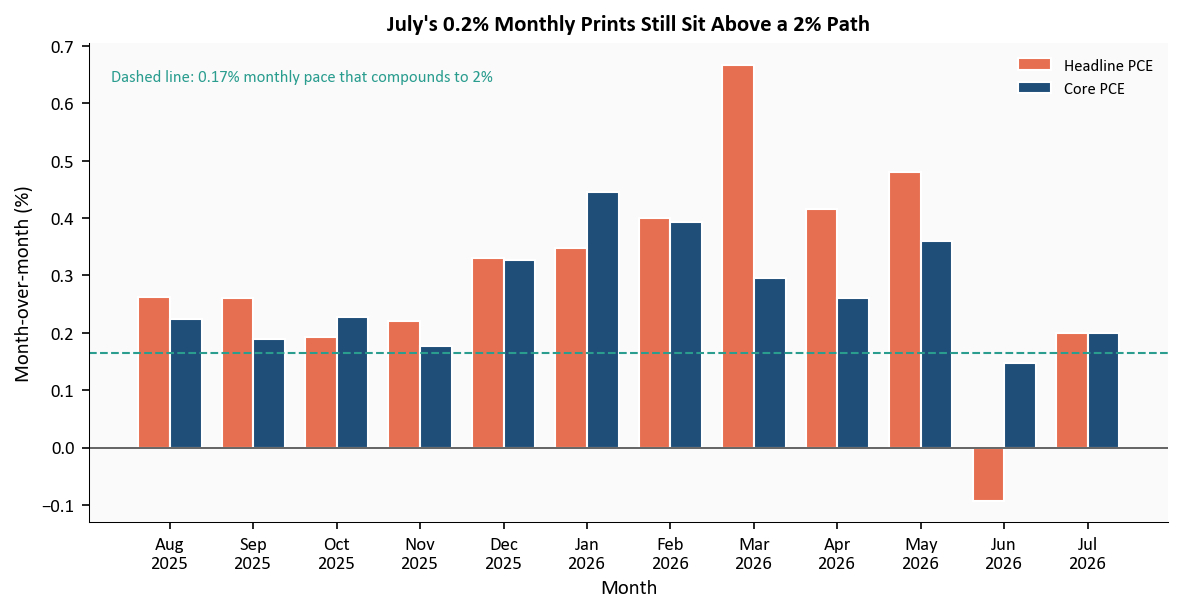
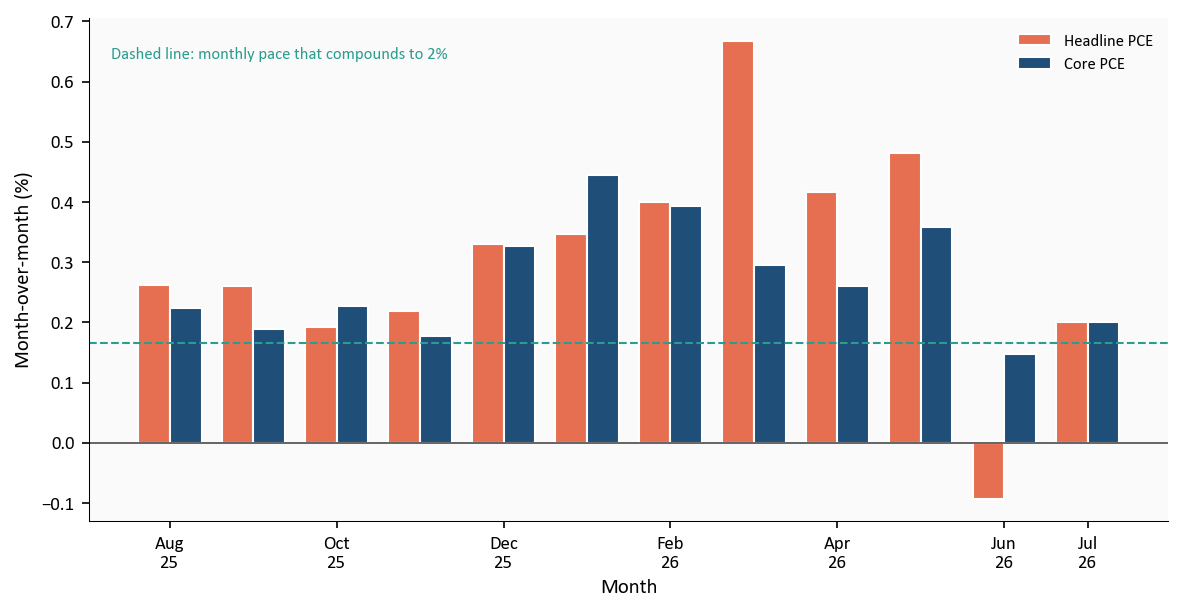
Raise July PCE draft to editor 9.5: stacked panels, distinct series colors

diff --git a/posts/2026-08-28-july-pce-jackson-hole/scripts/03_visualizations.py b/posts/2026-08-28-july-pce-jackson-hole/scripts/03_visualizations.py
@@ -6,6 +6,8 @@ STEP 3 of the data pipeline.
 Saves the five post figures under figures/. The same plots are also drawn
 inside index.qmd so readers can expand the code. Rate formulas live in
 02_clean_data.py; this script only plots those columns.
+
+In-chart titles are omitted; Quarto fig-caps carry the takeaway.
 """
 
 from __future__ import annotations
@@ -29,7 +31,7 @@ COLORS = {
     "light": "#b0b0b0",
 }
 
-TWO_PCT_MONTHLY = 0.16515198  # (1.02)^(1/12) - 1, as percent ~ 0.17
+TWO_PCT_MONTHLY = 0.16515198
 
 
 def setup_style() -> None:
@@ -51,7 +53,7 @@ def setup_style() -> None:
     })
 
 
-def extend_xlim(ax, index, pad_frac: float = 0.12) -> None:
+def extend_xlim(ax, index, pad_frac: float = 0.16) -> None:
     span = index[-1] - index[0]
     ax.set_xlim(index[0], index[-1] + span * pad_frac)
 
@@ -69,7 +71,7 @@ def chart_yoy(df: pd.DataFrame) -> None:
         ax.annotate(
             "Spring 2026\nenergy shock",
             xy=(shock, float(plot.loc[shock, "pce_headline_yoy"])),
-            xytext=(shock - pd.Timedelta(days=220), float(plot["pce_headline_yoy"].max()) - 0.15),
+            xytext=(shock - pd.Timedelta(days=240), float(plot["pce_headline_yoy"].max()) - 0.2),
             fontsize=8,
             color=COLORS["headline"],
             arrowprops=dict(arrowstyle="->", color=COLORS["light"], lw=0.8),
@@ -89,8 +91,7 @@ def chart_yoy(df: pd.DataFrame) -> None:
             f"  Core {last['pce_core_yoy']:.1f}%",
             color=COLORS["core"], fontsize=8, fontweight="bold", va="top")
 
-    extend_xlim(ax, plot.index, 0.16)
-    ax.set_title("PCE Inflation Held Above the Fed's 2% Target", fontweight="bold")
+    extend_xlim(ax, plot.index, 0.20)
     ax.set_ylabel("Year-over-year (%)")
     ax.set_xlabel("Month")
     ax.xaxis.set_major_locator(mdates.YearLocator())
@@ -101,9 +102,8 @@ def chart_yoy(df: pd.DataFrame) -> None:
 
 
 def chart_monthly(df: pd.DataFrame) -> None:
-    cols = ["pce_headline_mom", "pce_core_mom"]
-    plot = df.loc[:, cols].dropna().iloc[-12:]
-    x = range(len(plot))
+    plot = df.loc[:, ["pce_headline_mom", "pce_core_mom"]].dropna().iloc[-12:]
+    x = list(range(len(plot)))
     width = 0.38
     fig, ax = plt.subplots(figsize=(8.0, 4.2))
     ax.bar([i - width / 2 for i in x], plot["pce_headline_mom"], width=width,
@@ -113,17 +113,15 @@ def chart_monthly(df: pd.DataFrame) -> None:
     ax.axhline(TWO_PCT_MONTHLY, color=COLORS["target"], linestyle="--", linewidth=1.0)
     ax.text(
         0.02, 0.92,
-        "Dashed line: 0.17% monthly pace that compounds to 2%",  # matches two_pct_monthly_pace
+        "Dashed line: monthly pace that compounds to 2%",
         color=COLORS["target"], fontsize=8, transform=ax.transAxes,
     )
     ax.axhline(0, color=COLORS["neutral"], linewidth=0.8)
-    ax.set_xticks(list(x))
-    ax.set_xticklabels([d.strftime("%b\n%Y") for d in plot.index])
-    last_mom = float(plot["pce_headline_mom"].iloc[-1])
-    ax.set_title(
-        f"July's {last_mom:.1f}% Monthly Prints Still Sit Above a 2% Path",
-        fontweight="bold",
-    )
+    tick_idx = list(range(0, len(plot), 2))
+    if (len(plot) - 1) not in tick_idx:
+        tick_idx.append(len(plot) - 1)
+    ax.set_xticks([x[i] for i in tick_idx])
+    ax.set_xticklabels([plot.index[i].strftime("%b\n%y") for i in tick_idx])
     ax.set_ylabel("Month-over-month (%)")
     ax.set_xlabel("Month")
     ax.legend(loc="upper right", frameon=False, fontsize=8)
@@ -134,32 +132,24 @@ def chart_monthly(df: pd.DataFrame) -> None:
 
 def chart_spending(df: pd.DataFrame) -> None:
     plot = df.loc["2023-01-01":, ["real_pce_yoy", "saving_rate"]].dropna()
-    fig, ax1 = plt.subplots(figsize=(8.0, 4.6))
-    ax2 = ax1.twinx()
-    ax2.grid(False)
-    ax2.spines["top"].set_visible(False)
-    ax1.plot(plot.index, plot["real_pce_yoy"], color=COLORS["target"], linewidth=1.9,
-             label="Real PCE YoY")
-    ax2.plot(plot.index, plot["saving_rate"], color=COLORS["core"], linewidth=1.8,
-             label="Saving rate")
+    fig, (ax1, ax2) = plt.subplots(
+        2, 1, figsize=(8.0, 7.0), sharex=True, gridspec_kw={"height_ratios": [2.2, 1.4]}
+    )
+    ax1.plot(plot.index, plot["real_pce_yoy"], color=COLORS["target"], linewidth=1.9)
+    ax2.plot(plot.index, plot["saving_rate"], color=COLORS["core"], linewidth=1.8)
     july = pd.Timestamp("2026-07-01")
     if july in plot.index:
         ax2.scatter(july, plot.loc[july, "saving_rate"], s=40, color=COLORS["core"],
                     edgecolors="white", linewidth=0.8, zorder=5)
-        ax2.text(july, plot.loc[july, "saving_rate"],
-                 f"  July saving rate {plot.loc[july, 'saving_rate']:.1f}%",
-                 color=COLORS["core"], fontsize=8, fontweight="bold", va="center")
+        ax2.text(july, plot.loc[july, "saving_rate"] + 0.18,
+                 f"  July {plot.loc[july, 'saving_rate']:.1f}%",
+                 color=COLORS["core"], fontsize=8, fontweight="bold", va="bottom")
     extend_xlim(ax1, plot.index, 0.22)
-    july_save = float(plot.loc[july, "saving_rate"]) if july in plot.index else float(plot["saving_rate"].iloc[-1])
-    ax1.set_title(
-        f"Real Spending Stayed Soft as Households Saved {july_save:.1f}% of DPI",
-        fontweight="bold",
-    )
-    ax1.set_ylabel("Real PCE, year-over-year (%)", color=COLORS["target"])
-    ax2.set_ylabel("Personal saving rate (% of DPI)", color=COLORS["core"])
-    ax1.set_xlabel("Month")
-    ax1.xaxis.set_major_locator(mdates.YearLocator())
-    ax1.xaxis.set_major_formatter(mdates.DateFormatter("%Y"))
+    ax1.set_ylabel("Real PCE YoY (%)")
+    ax2.set_ylabel("Saving rate (%)")
+    ax2.set_xlabel("Month")
+    ax2.xaxis.set_major_locator(mdates.YearLocator())
+    ax2.xaxis.set_major_formatter(mdates.DateFormatter("%Y"))
     plt.tight_layout()
     fig.savefig(FIG_DIR / "real-pce-saving.png", dpi=150, bbox_inches="tight")
     plt.close(fig)
@@ -167,35 +157,36 @@ def chart_spending(df: pd.DataFrame) -> None:
 
 def chart_labor(df: pd.DataFrame) -> None:
     plot = df.loc["2025-01-01":"2026-07-01", ["payroll_change_k", "unrate"]].dropna()
-    fig, ax1 = plt.subplots(figsize=(8.0, 4.6))
-    ax2 = ax1.twinx()
-    ax2.grid(False)
-    ax2.spines["top"].set_visible(False)
+    payroll_average = plot["payroll_change_k"].rolling(3).mean()
+    fig, (ax1, ax2) = plt.subplots(
+        2, 1, figsize=(8.0, 7.0), sharex=True, gridspec_kw={"height_ratios": [2.2, 1.4]}
+    )
     colors = [COLORS["target"] if v >= 0 else COLORS["headline"] for v in plot["payroll_change_k"]]
     ax1.bar(plot.index, plot["payroll_change_k"], width=20, color=colors, alpha=0.7, edgecolor="white")
-    ax2.plot(plot.index, plot["unrate"], color=COLORS["core"], linewidth=1.9)
+    ax1.plot(plot.index, payroll_average, color=COLORS["core"], linewidth=2.0,
+             label="3-month average")
     ax1.axhline(0, color=COLORS["neutral"], linewidth=0.8)
+    ax2.plot(plot.index, plot["unrate"], color=COLORS["core"], linewidth=1.9)
     july = pd.Timestamp("2026-07-01")
     if july in plot.index:
         val = float(plot.loc[july, "payroll_change_k"])
+        un = float(plot.loc[july, "unrate"])
         ax1.scatter(july, val, s=40, color=COLORS["headline"], edgecolors="white",
                     linewidth=0.8, zorder=5)
-        ax1.text(july, val, f"  July {val:+.0f}k", color=COLORS["headline"],
+        ax1.text(july, val - 8, f"  July {val:+.0f}k", color=COLORS["headline"],
+                 fontsize=8, fontweight="bold", va="top")
+        ax2.scatter(july, un, s=40, color=COLORS["core"], edgecolors="white",
+                    linewidth=0.8, zorder=5)
+        ax2.text(july, un, f"  {un:.1f}%", color=COLORS["core"],
                  fontsize=8, fontweight="bold", va="center")
-    extend_xlim(ax1, plot.index, 0.12)
-    july_pay = float(plot.loc[july, "payroll_change_k"]) if july in plot.index else float(plot["payroll_change_k"].iloc[-1])
-    july_un = float(plot.loc[july, "unrate"]) if july in plot.index else float(plot["unrate"].iloc[-1])
-    ax1.set_title(
-        f"July Payrolls Were {july_pay:+.0f}k, Unemployment Near {july_un:.1f}%",
-        fontweight="bold",
-    )
-    ax1.set_ylabel("Monthly payroll change (thousands)")
-    ax2.set_ylim(3.5, 5.0)
-    ax2.set_ylabel("Unemployment rate (%)", color=COLORS["core"])
-    ax1.set_xlabel("Month")
-    ax1.xaxis.set_major_locator(mdates.MonthLocator(interval=3))
-    ax1.xaxis.set_major_formatter(mdates.DateFormatter("%b\n%Y"))
+    extend_xlim(ax1, plot.index, 0.18)
+    ax1.set_ylabel("Payroll change, k")
+    ax2.set_ylabel("Unemployment (%)")
+    ax2.set_xlabel("Month")
     ax1.yaxis.set_major_formatter(ticker.StrMethodFormatter("{x:,.0f}"))
+    ax1.legend(loc="upper right", frameon=False, fontsize=8)
+    ax2.xaxis.set_major_locator(mdates.MonthLocator(interval=3))
+    ax2.xaxis.set_major_formatter(mdates.DateFormatter("%b\n%Y"))
     plt.tight_layout()
     fig.savefig(FIG_DIR / "labor-dashboard.png", dpi=150, bbox_inches="tight")
     plt.close(fig)
@@ -209,7 +200,7 @@ def chart_policy(df: pd.DataFrame) -> None:
         plot["fed_target_upper"],
         plot["pce_core_yoy"],
         color=COLORS["light"],
-        alpha=0.35,
+        alpha=0.28,
         label="Gap (not a model of r*)",
     )
     ax.plot(plot.index, plot["fed_target_upper"], color=COLORS["core"], linewidth=1.9,
@@ -227,8 +218,7 @@ def chart_policy(df: pd.DataFrame) -> None:
     ax.text(plot.index[-1], last["pce_core_yoy"],
             f"  Core {last['pce_core_yoy']:.1f}%",
             color=COLORS["headline"], fontsize=8, fontweight="bold", va="center")
-    extend_xlim(ax, plot.index, 0.16)
-    ax.set_title("Policy Rate Ceiling versus Core PCE (Not an r* Model)", fontweight="bold")
+    extend_xlim(ax, plot.index, 0.20)
     ax.set_ylabel("Percent")
     ax.set_xlabel("Month")
     ax.legend(loc="upper right", frameon=False, fontsize=8)
